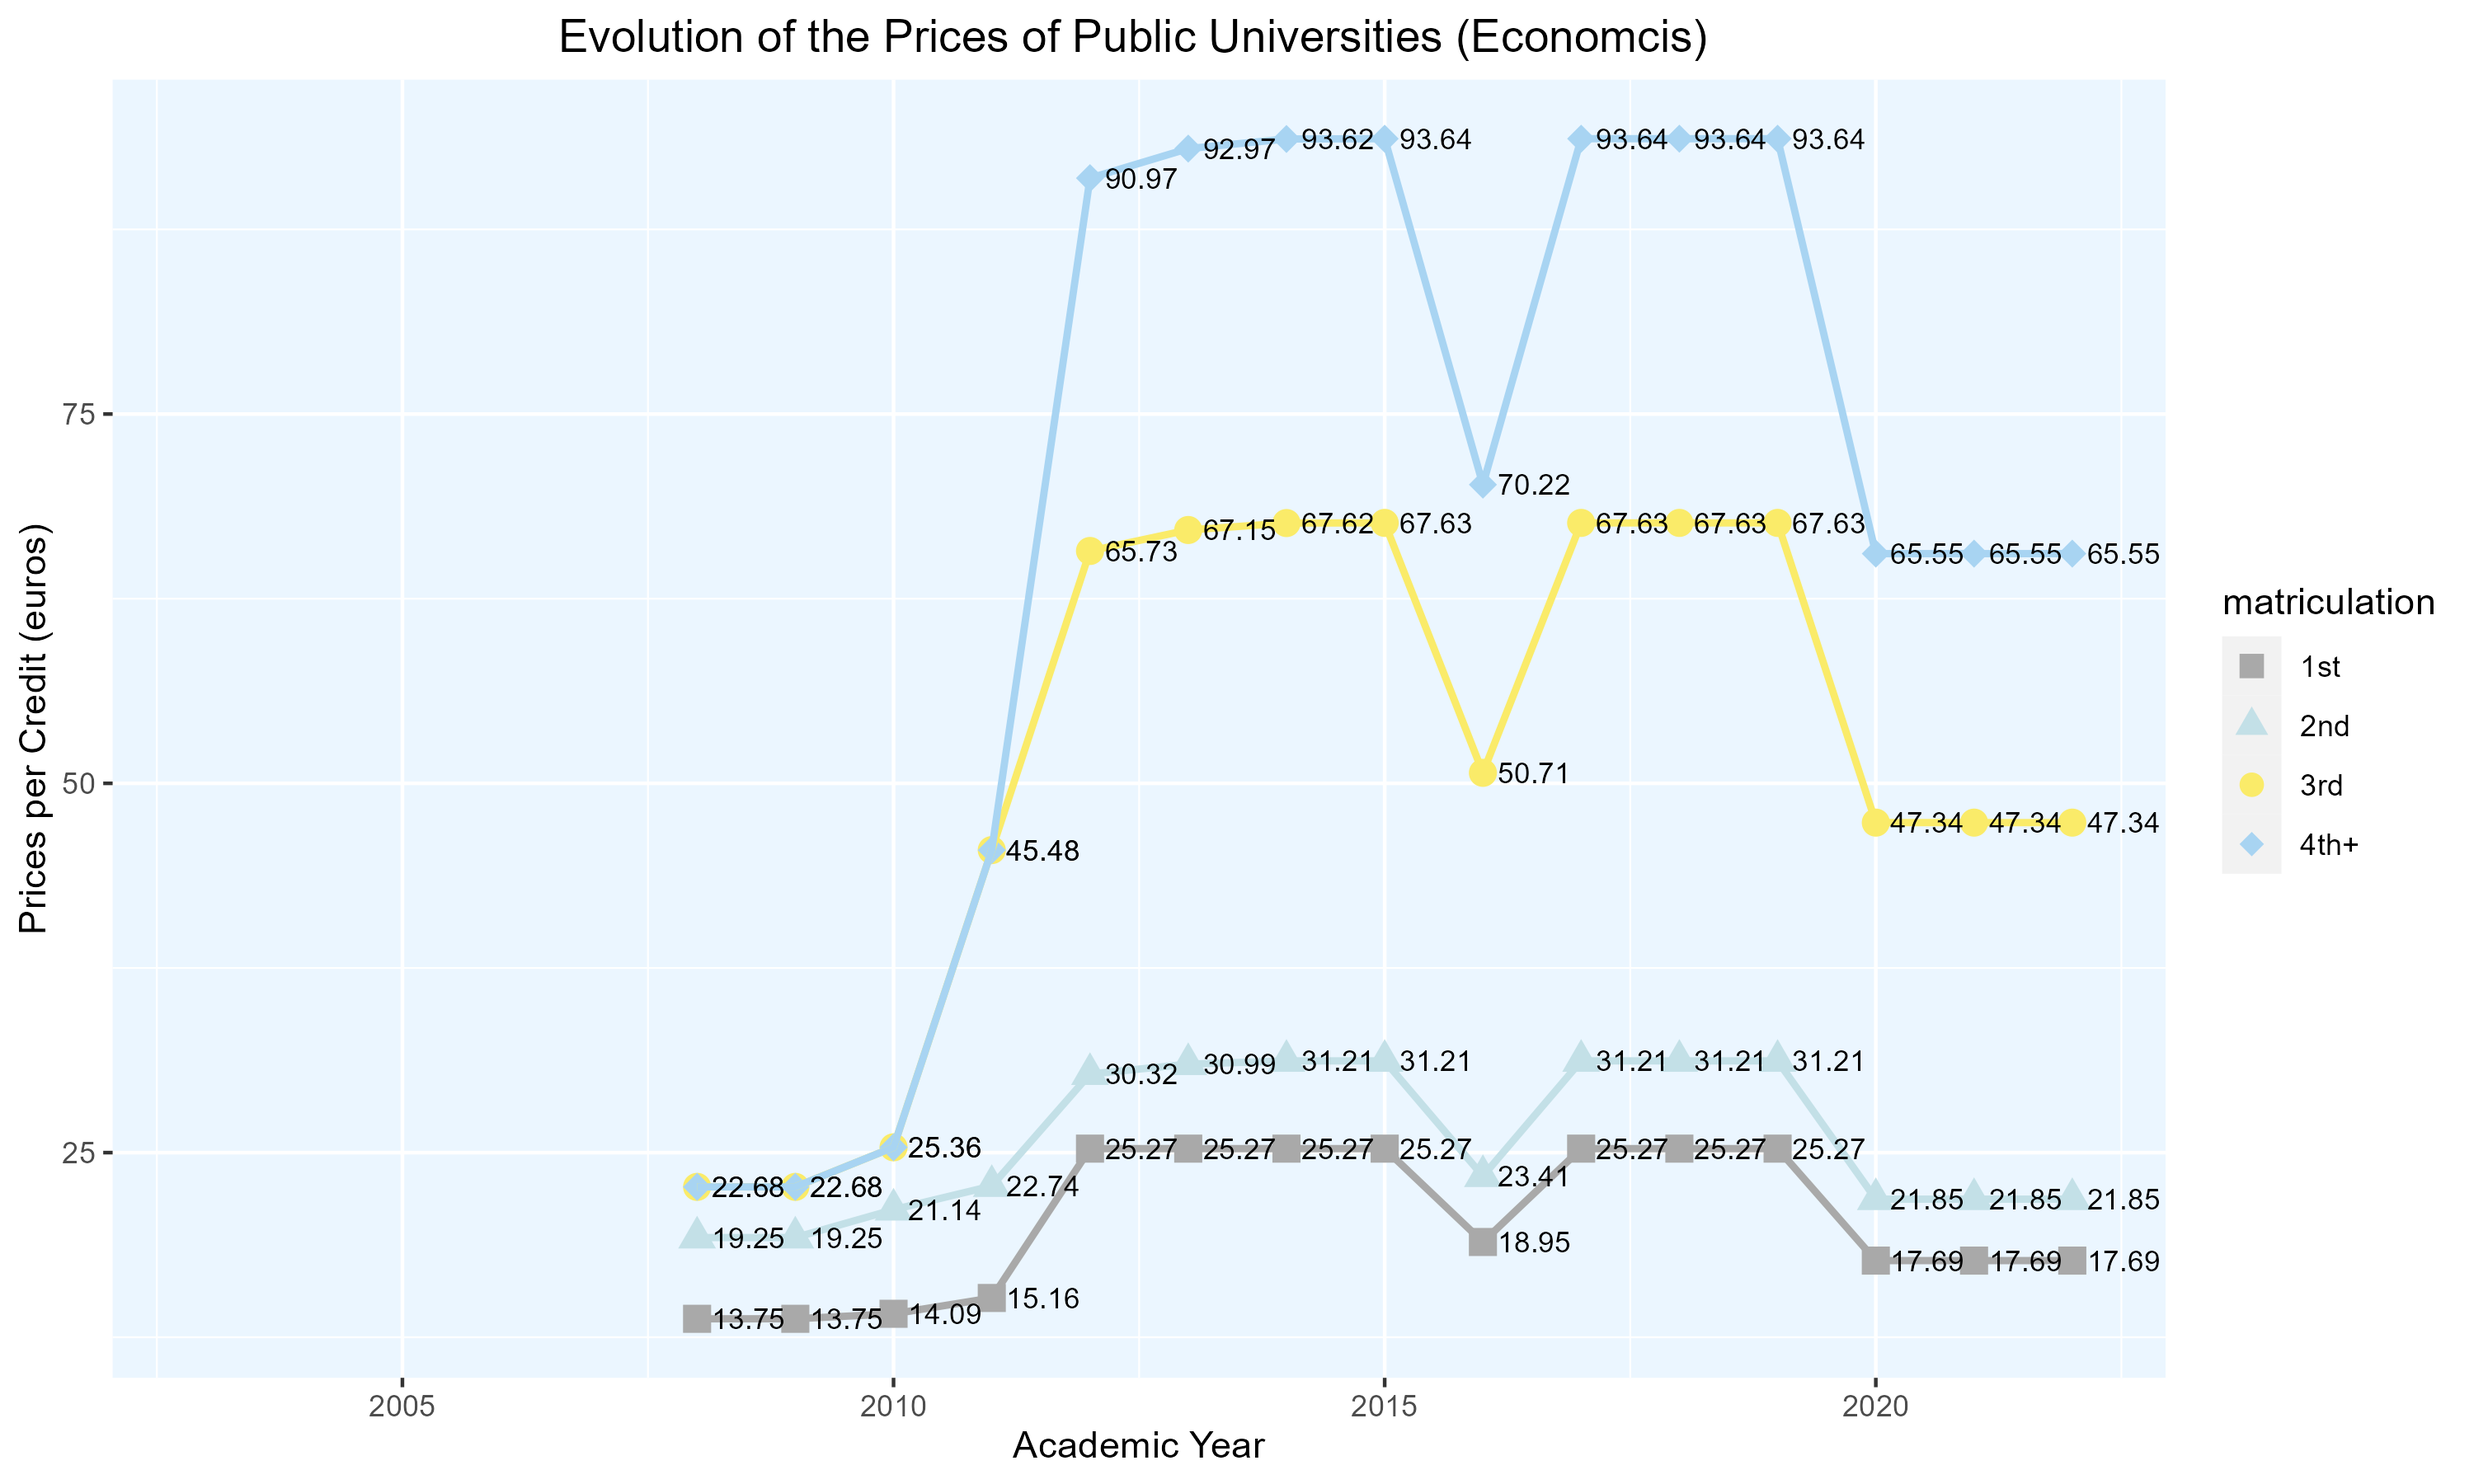
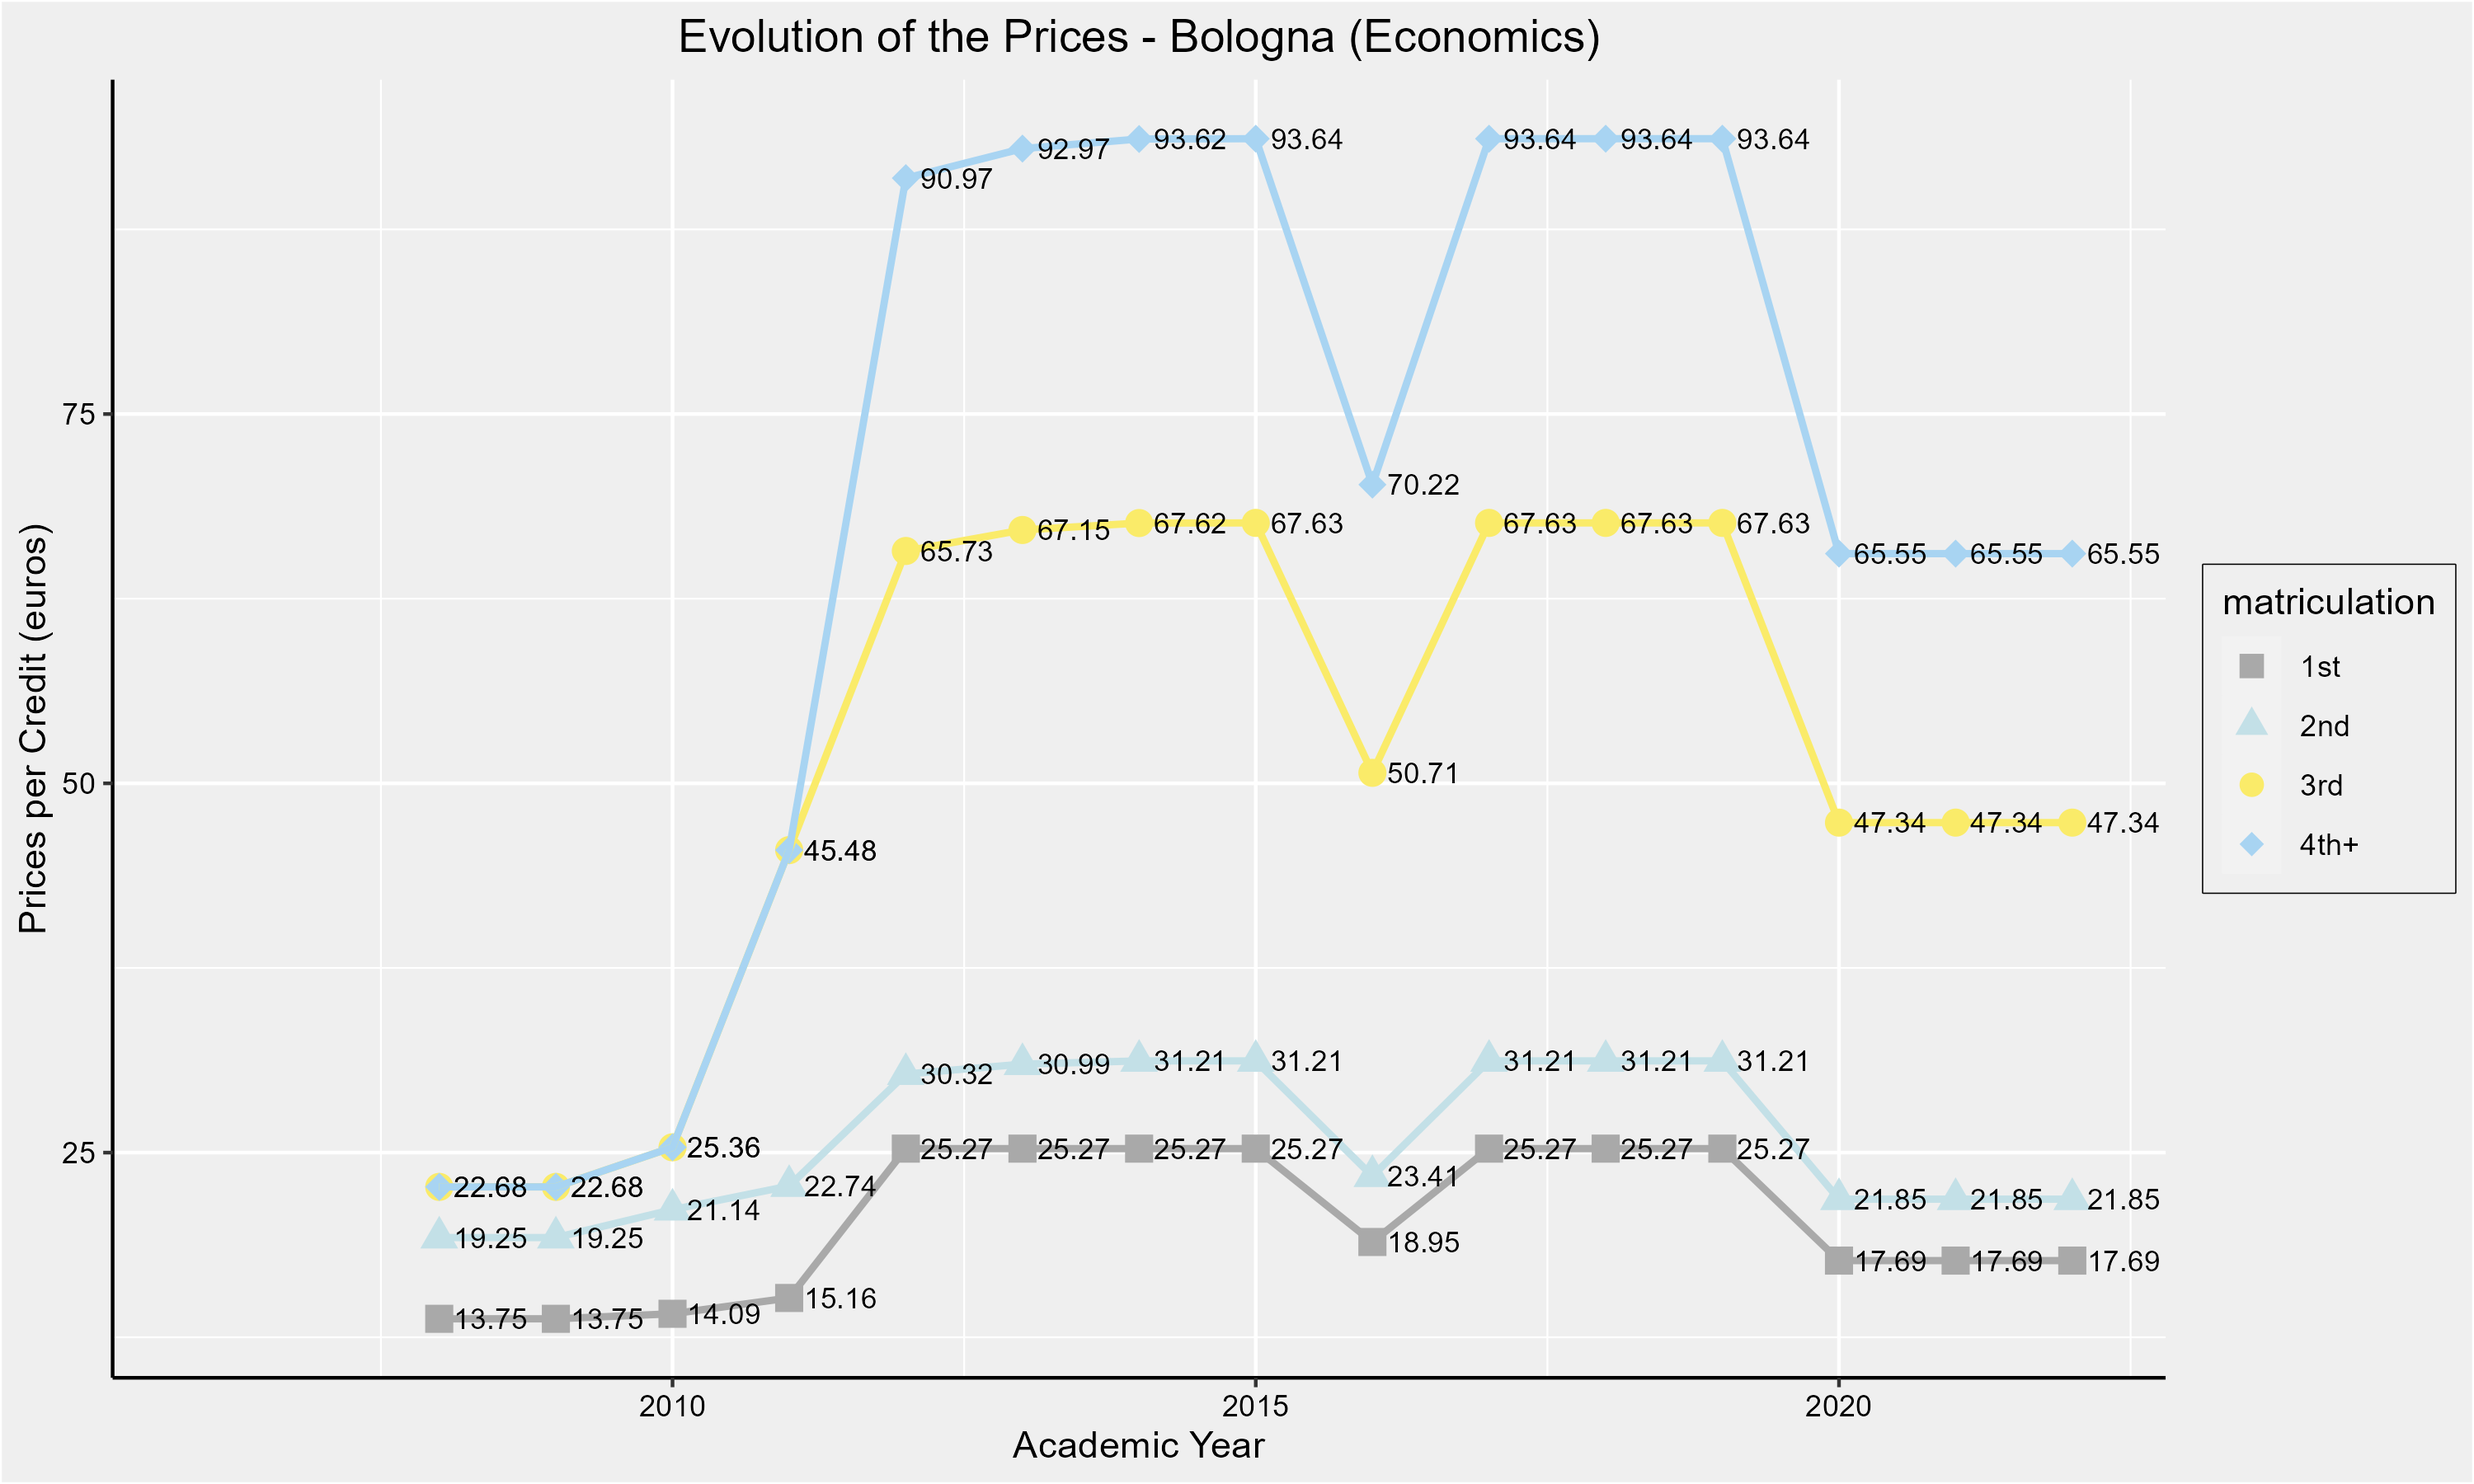
for defence

diff --git a/notes/RP_pre.html b/notes/RP_pre.html
@@ -137,8 +137,14 @@
 							<h3>1 &nbsp;&nbsp; Does Raising Costs Boost Student Effort? </h3>
 						</div>
 
-						<div class="slide-body">
+						<div class="slide-body">	
+							<div class="image-container">
+							    <img src="assets/exploratory_retake/economics_old.png" alt="Economics">	
+							</div>
+
+							<p><a href="#comparison">点击这里跳转到指定 section</a></p>
 						</div>
+									
 
 						<div class="slide-tail">
 							<div><span class="author-name1"></span></div>
@@ -199,6 +205,33 @@
 							<h1>Thank you!</h1>
 						</div>
 					</section>
+
+
+					<section class="my-slide" id="comparison">
+						<div class="slide-title">
+							<h3>Appendix: Comparison of the two price systems</h3>
+						</div>
+
+						<div class="slide-body">
+							<div class="image-container">
+							  <div class="row" >
+							    <div class="column">
+							      <img src="assets/exploratory_retake/economics.png" alt="Economics">
+							    </div>
+							    <div class="column">
+							      <img src="assets/exploratory_retake/economics_old.png" alt="Economics_old">
+							    </div>
+							  </div>			
+							</div>
+						</div>
+
+						<div class="slide-tail">
+							<div><span class="author-name1"></span></div>
+							<div><span class="pre-name"></span></div>
+							<div><span class="date"></span> <span class="slide-index"></span></div>
+						</div>
+					</section>	
+
 				</section>
 
 

diff --git a/notes/dist/theme/academic.css b/notes/dist/theme/academic.css
@@ -18,8 +18,8 @@ section.has-dark-background, section.has-dark-background h1, section.has-dark-ba
  * 
  *********************************************/
 :root {
-  --r-background-color: hsl(0,0%,94%); /*比较灰*/
-  --r-compliment-color: hsl(105, 28%, 43%);  
+  --r-background-color: #EFEFEF; /*比较灰*/
+  --r-compliment-color: #5F8151;;  
   --r-main-font: Arial, Source Sans Pro,  Helvetica, sans-serif;
   --r-main-font-size: 22px;
   --r-main-color: #222;
